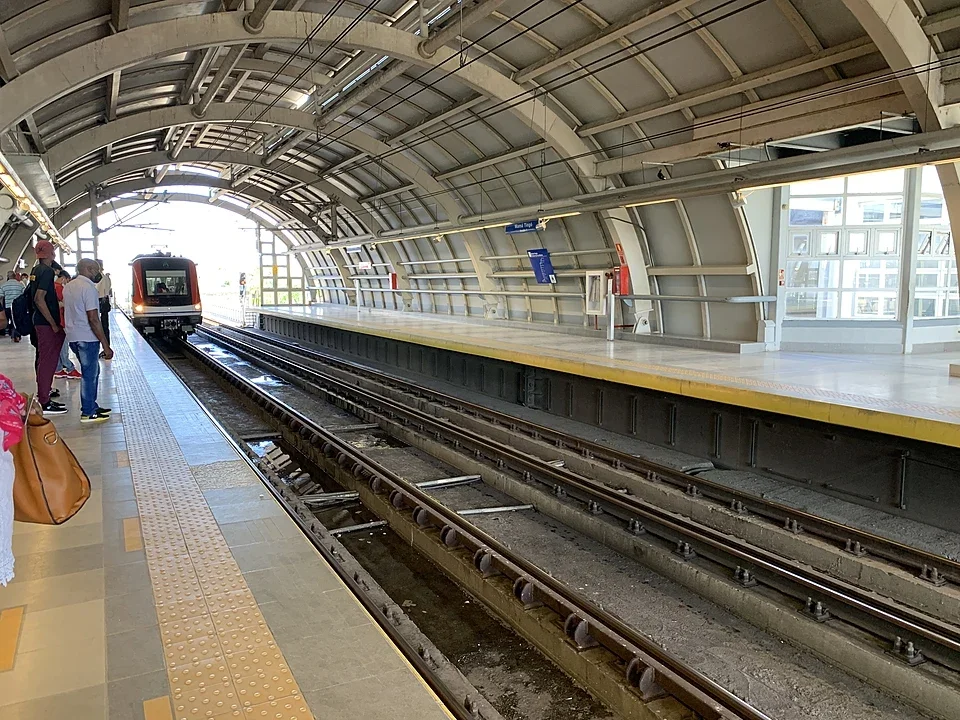
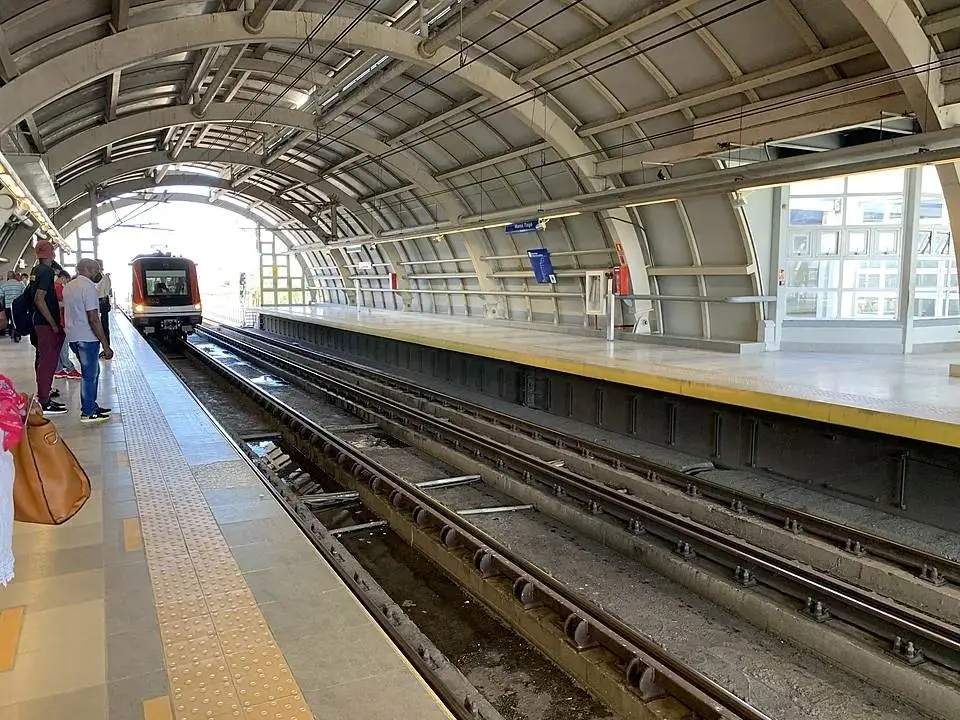
fixed

diff --git a/chamber/index.html b/chamber/index.html
@@ -10,7 +10,7 @@
     <meta property="og:title" content="WDD231 - Chamber Home Page | Cristopher Castro">
     <meta property="og:description" content="Explore the official business directory of the Santo Domingo Norte Chamber of Commerce."> 
     <meta property="og:image" content="https://cristoper2456.github.io/wdd231/chamber/images/cris.jpeg"> 
-    <meta property="og:url" content="https://cristoper2456.github.io/wdd231/chamber/directory.html">
+    <meta property="og:url" content="https://cristoper2456.github.io/wdd231/chamber/index.html">
     
     <link rel="stylesheet" href="styles/normalize.css">
     <link rel="stylesheet" href="styles/base.css">
